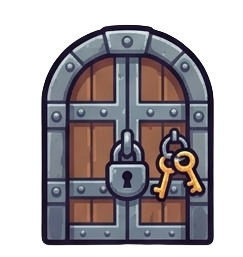
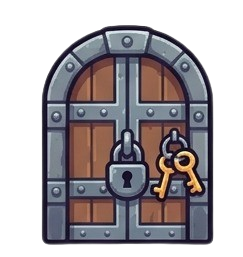
created map,diamond and exit component

diff --git a/frontend/src/app/game/components/map/map.component.ts b/frontend/src/app/game/components/map/map.component.ts
@@ -1,15 +1,14 @@
-import { Component, Input, NgModule } from '@angular/core';
+import { Component, Input } from '@angular/core';
+import { CommonModule } from '@angular/common';
 import { GameMap, TileType } from '../../models/map.model';
-import { PlayerComponent } from '../player/player.component';
+import { Position } from '../../models/position.model';
+import { ExitComponent } from "../exit/exit.component";
 import { DiamondComponent } from '../diamond/diamond.component';
-import { ExitComponent } from '../exit/exit.component';
-import { GuardComponent } from '../guard/guard.component';
-import { CommonModule, NgClass } from '@angular/common';
 
 @Component({
   selector: 'app-map',
   standalone: true,
-  imports: [PlayerComponent, DiamondComponent, ExitComponent, GuardComponent,NgClass,CommonModule],
+  imports: [CommonModule, ExitComponent,DiamondComponent],
   templateUrl: './map.component.html',
   styleUrl: './map.component.scss'
 })
@@ -18,5 +17,35 @@ export class MapComponent {
 
   getTileClass(tile: TileType): string {
     return `tile-${tile}`;
+  }
+
+  get wallPositions(): Position[] {
+    if (!this.gameMap?.tiles) {
+      return [];
+    }
+
+    const walls: Position[] = [];
+
+    this.gameMap.tiles.forEach((row, y) => {
+      row.forEach((tile, x) => {
+        if (tile === 'wall') {
+          walls.push({ x, y });
+        }
+      });
+    });
+
+    return walls;
+  }
+
+  getWallStyle(position: Position): Record<string, string> {
+    const tileWidth = 100 / this.gameMap.width;
+    const tileHeight = 100 / this.gameMap.height;
+
+    return {
+      left: `${position.x * tileWidth}%`,
+      top: `${position.y * tileHeight}%`,
+      width: `${tileWidth}%`,
+      height: `${tileHeight}%`
+    };
   }
 }

diff --git a/frontend/src/app/game/components/exit/exit.component.ts b/frontend/src/app/game/components/exit/exit.component.ts
@@ -1,12 +1,32 @@
-import { Component } from '@angular/core';
+import { Component, Input } from '@angular/core';
+import { CommonModule } from '@angular/common';
+import { GameMap } from '../../models/map.model';
+import { GameService } from '../../services/game.service';
 
 @Component({
   selector: 'app-exit',
   standalone: true,
-  imports: [],
+  imports: [CommonModule],
   templateUrl: './exit.component.html',
   styleUrl: './exit.component.scss'
 })
 export class ExitComponent {
+  @Input() gameMap!: GameMap;
 
+  readonly gameState$ = this.gameService.gameState$;
+
+  get hasDiamond(): boolean {
+    return this.gameService.currentState?.player.hasDiamond ?? false;
+  }
+
+  get exitTransform(): string {
+    const tileSize = this.gameMap?.tileSize ?? 1;
+    const exitPosition = this.gameMap?.exitPosition ?? { x: 0, y: 0 };
+    const offsetX = 60;
+    const offsetY = -8;
+
+    return `translate(${exitPosition.x * tileSize + offsetX}px, ${exitPosition.y * tileSize + offsetY}px)`;
+  }
+
+  constructor(private readonly gameService: GameService) {}
 }

diff --git a/frontend/src/app/game/components/map/map.component.scss b/frontend/src/app/game/components/map/map.component.scss
@@ -1,17 +1,31 @@
 .game-map {
-//   --tile-size: 48px;
-
-//   display: grid;
-//   grid-template-columns: repeat(var(--columns), var(--tile-size));
-//   grid-template-rows: repeat(var(--rows), var(--tile-size));
-  width: 95vw;
-  height: 75vh;
   position: relative;
+  margin: 0 auto;
+  width: 80vw;
+  height: 75vh;
   background-image: url('/assets/maps/map1.png');
-  background-size: contain;
+  background-size: 100% 100%;
   background-position: center;
   background-repeat: no-repeat;
-  background-attachment: fixed;
+  overflow: hidden;
+}
+
+.wall {
+  position: absolute;
+  display: flex;
+  align-items: center;
+  justify-content: center;
+  z-index: 2;
+  box-sizing: border-box;
+}
+
+.wall-img {
+  width: 100%;
+  height: 100%;
+  display: block;
+  object-fit: cover;
+  box-sizing: border-box;
+  margin: auto;
 }
 
 .tile {

diff --git a/frontend/src/app/game/components/diamond/diamond.component.ts b/frontend/src/app/game/components/diamond/diamond.component.ts
@@ -1,12 +1,14 @@
-import { Component } from '@angular/core';
+import { Component, Input } from '@angular/core';
+import { GameMap } from '../../models/map.model';
+import { CommonModule } from '@angular/common';
 
 @Component({
   selector: 'app-diamond',
   standalone: true,
-  imports: [],
+  imports: [CommonModule],
   templateUrl: './diamond.component.html',
-  styleUrl: './diamond.component.scss'
+  styleUrls: ['./diamond.component.scss']
 })
 export class DiamondComponent {
-
-}
+  @Input({ required: true }) gameMap!: GameMap;
+} 

diff --git a/frontend/src/app/game/game-routing.module.ts b/frontend/src/app/game/game-routing.module.ts
@@ -1,13 +1,14 @@
 import { NgModule } from '@angular/core';
 import { RouterModule, Routes } from '@angular/router';
 import { GameScreenComponent } from './components/game-screen/game-screen.component';
+import { CommonModule } from '@angular/common';
 
 const routes: Routes = [
   {path:'',component:GameScreenComponent}
 ];
 
 @NgModule({
-  imports: [RouterModule.forChild(routes)],
+  imports: [CommonModule, RouterModule.forChild(routes), GameScreenComponent],
   exports: [RouterModule]
 })
 export class GameRoutingModule { }

diff --git a/frontend/src/app/game/components/exit/exit.component.scss b/frontend/src/app/game/components/exit/exit.component.scss
@@ -1,0 +1,30 @@
+:host {
+  position: absolute;
+  inset: 0 auto auto 0;
+  display: block;
+  z-index: 3;
+}
+
+.exit {
+  position: absolute;
+  left: 0;
+  top: 0;
+  display: flex;
+  align-items: center;
+  justify-content: center;
+  pointer-events: none;
+  box-sizing: border-box;
+}
+
+.exit-image {
+  display: block;
+  width: 100%;
+  height: 100%;
+  object-fit: contain;
+  image-rendering: pixelated;
+  user-select: none;
+}
+
+.exit.unlocked .exit-image {
+  filter: brightness(1.08);
+}

diff --git a/frontend/src/app/game/components/map/map.component.html b/frontend/src/app/game/components/map/map.component.html
@@ -1,9 +1,11 @@
-<div
-  class="game-map"
->
-
-  <!-- <app-player></app-player>
-  <app-diamond></app-diamond>
-  <app-exit></app-exit>
-  <app-guard></app-guard> -->
+<div class="game-map" *ngIf="gameMap">
+  <div
+    class="wall"
+    *ngFor="let wall of wallPositions"
+    [ngStyle]="getWallStyle(wall)"
+  >
+    <img class="wall-img" src="/assets/images/wall.png" alt="Wall">
+  </div>
+  <app-exit [gameMap]="gameMap"></app-exit>
+  <app-diamond [gameMap]="gameMap"></app-diamond>
 </div>

diff --git a/frontend/src/app/game/components/exit/exit.component.html b/frontend/src/app/game/components/exit/exit.component.html
@@ -1,1 +1,15 @@
-<p>exit works!</p>
+<ng-container *ngIf="gameMap">
+  <div
+    class="exit"
+    [class.unlocked]="hasDiamond"
+    [style.width.px]="gameMap.tileSize + 15"
+    [style.height.px]="gameMap.tileSize + 10"
+    [style.transform]="exitTransform"
+  >
+    <img
+      class="exit-image"
+      [src]="hasDiamond ? '/assets/images/escapeDoorOpen.png' : '/assets/images/escapeDoor.png'"
+      alt="Exit door"
+    />
+  </div>
+</ng-container>

diff --git a/frontend/src/app/game/components/diamond/diamond.component.html b/frontend/src/app/game/components/diamond/diamond.component.html
@@ -1,1 +1,14 @@
-<p>diamond works!</p>
+<ng-container>
+  <div
+    class="diamond"
+    [style.transform]="
+      'translate(' +
+      (gameMap.diamondPosition.x * gameMap.tileSize + 30) +
+      'px, ' +
+      (gameMap.diamondPosition.y * gameMap.tileSize + 40) +
+      'px)'
+    "
+  >
+    <img src="assets/images/diamond.png" alt="Diamond" />
+  </div>
+</ng-container>

diff --git a/frontend/src/app/game/services/game.service.ts b/frontend/src/app/game/services/game.service.ts
@@ -3,7 +3,9 @@ import { BehaviorSubject } from 'rxjs';
 import { GameState } from '../models/game-state.model';
 import { GameMap } from '../models/map.model';
 
-@Injectable()
+@Injectable({
+  providedIn: 'root'
+})
 export class GameService {
   private readonly initialTime = 120;
 

diff --git a/frontend/src/app/game/components/diamond/diamond.component.scss b/frontend/src/app/game/components/diamond/diamond.component.scss
@@ -1,0 +1,16 @@
+.diamond {
+  position: absolute;
+  display: flex;
+  align-items: center;
+  justify-content: center;
+  width: 48px;
+  height: 48px;
+  top: 0;
+  left: 0;
+
+  img {
+    width: 100%;
+    height: 100%;
+    object-fit: contain;
+  }
+}

diff --git a/frontend/src/app/game/components/game-screen/game-screen.component.html b/frontend/src/app/game/components/game-screen/game-screen.component.html
@@ -1,5 +1,5 @@
 <div class="gameScreenContainer">
-    <p>game-screen works!</p>
+    <p>Game Screen works!</p>
     @if (gameMap) {
         <app-map [gameMap]="gameMap"></app-map>
     }
